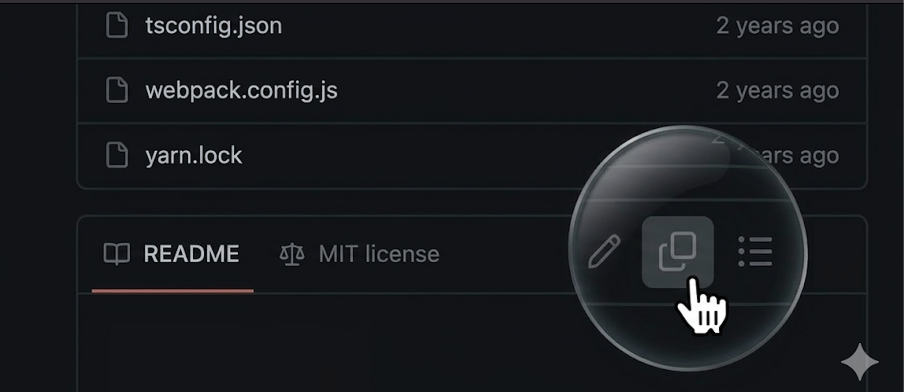
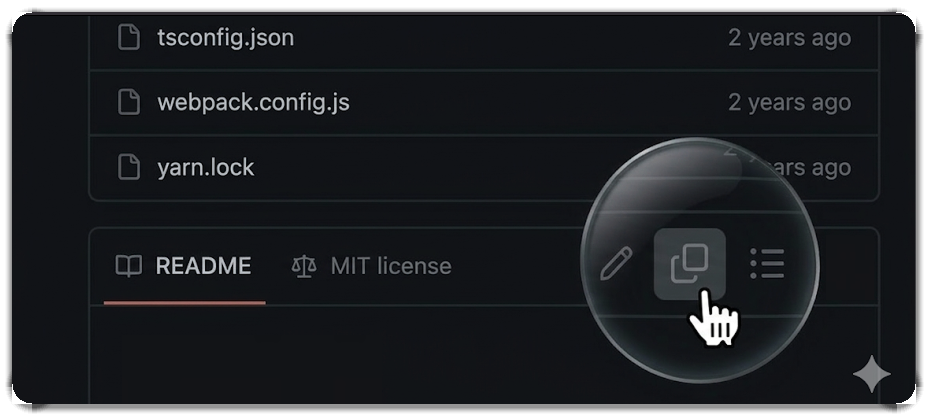
Bake border-radius and drop shadow into screenshot image

diff --git a/README.md b/README.md
@@ -1,7 +1,7 @@
 <h1 align="center">Github-Copy-LLM</h1>
 
 <p align="center">
-  <img src="./assets/screenshot.png" alt="GitHub Copy LLM screenshot" width="600" style="border-radius: 20px; box-shadow: 0 4px 12px rgba(0,0,0,0.15);">
+  <img src="./assets/screenshot.png" alt="GitHub Copy LLM screenshot" width="600">
 </p>
 
 <p align="center">
